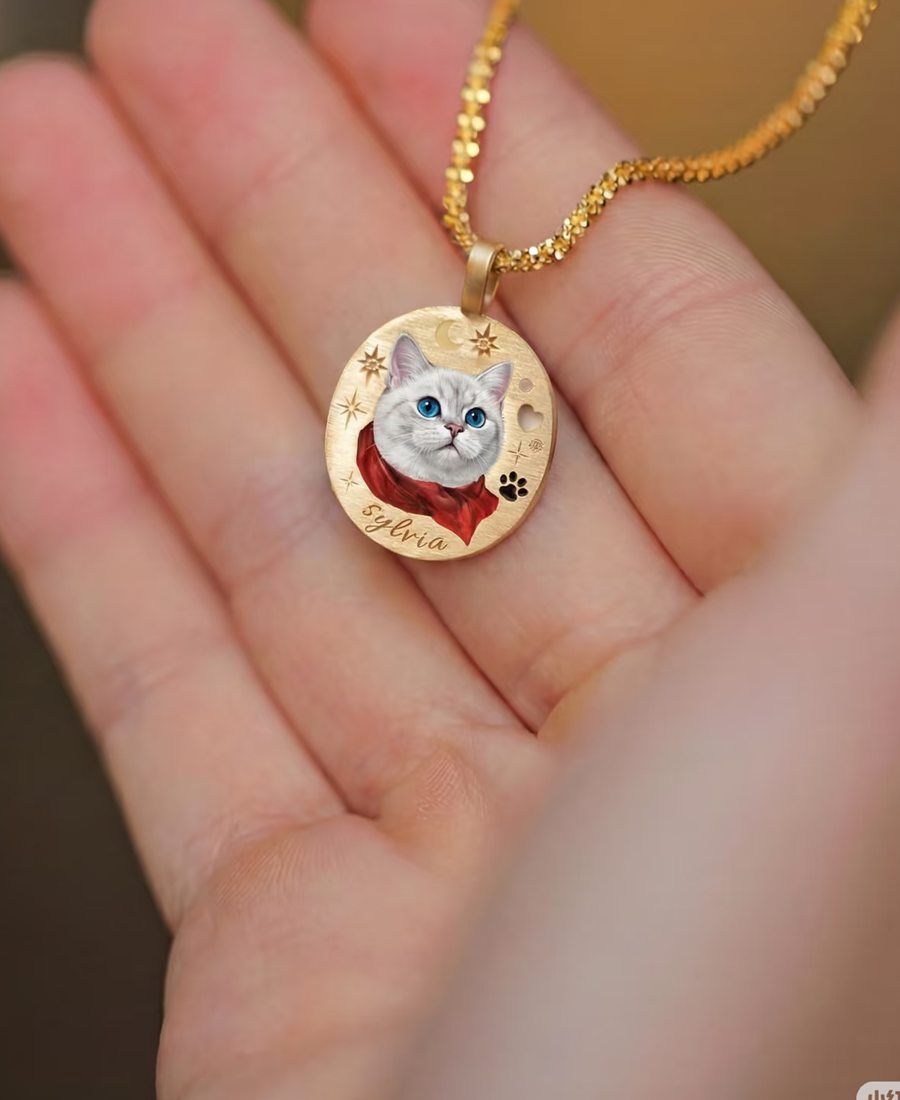
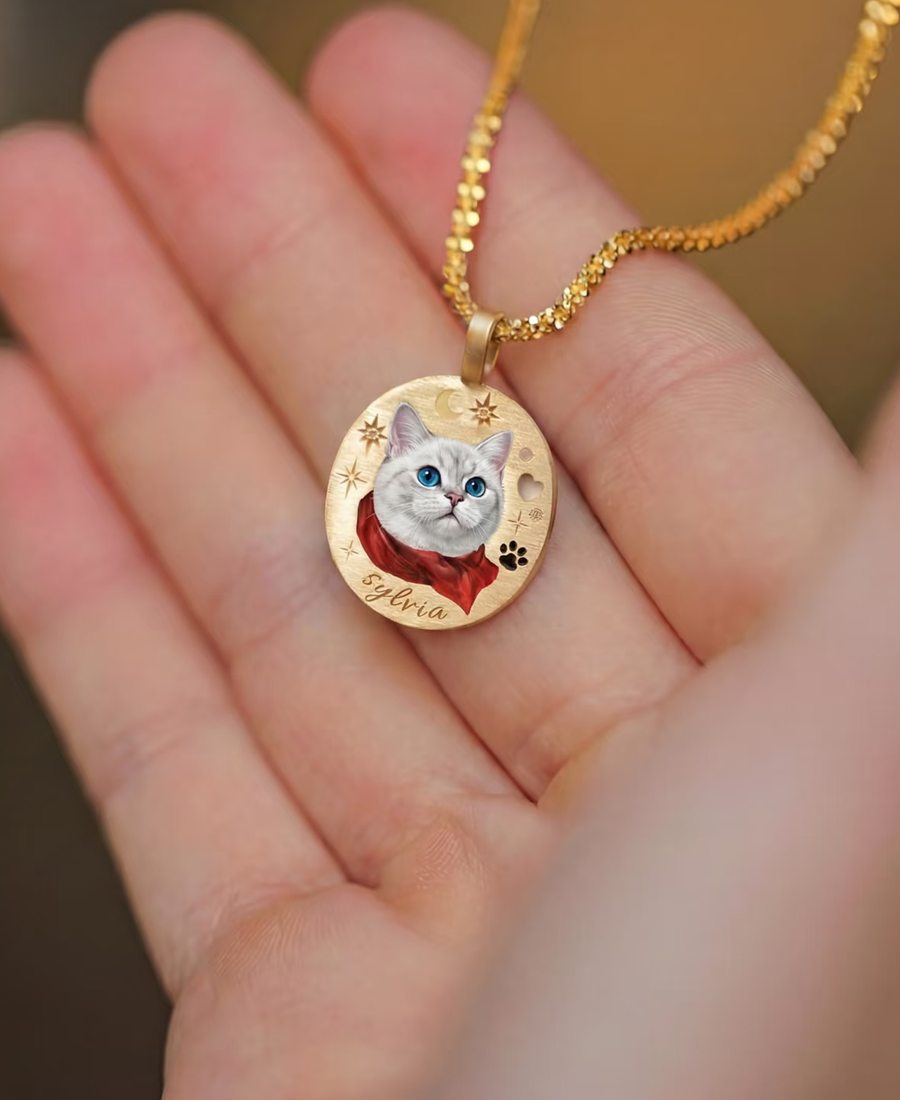
Refine pendant photograph crop to exclude watermark edge

diff --git a/public/index.html b/public/index.html
@@ -43,7 +43,7 @@
       <figure><img src="/portfolio/cat.jpg" alt="White-cat portrait signet with pink enamel flowers" width="900" height="1000" loading="lazy"><figcaption>A familiar face</figcaption></figure>
       <figure><img src="/portfolio/beach.jpg" alt="Enamel beach landscape ring with palm trees, a setting sun and stars" width="700" height="900" loading="lazy"><figcaption>A place to return to</figcaption></figure>
       <figure><img src="/portfolio/baby.jpg" alt="Baby portrait and childhood toys captured in a gold ring" width="900" height="950" loading="lazy"><figcaption>A moment in time</figcaption></figure>
-      <figure><img src="/portfolio/pendant.jpg" alt="Personalized cat portrait pendant with a red scarf and the name Sylvia" width="900" height="1100" loading="lazy"><figcaption>A love like no other</figcaption></figure>
+      <figure><img src="/portfolio/pendant.jpg?v=2" alt="Personalized cat portrait pendant with a red scarf and the name Sylvia" width="900" height="1100" loading="lazy"><figcaption>A love like no other</figcaption></figure>
       <figure><img src="/portfolio/apple.jpg" alt="Apple-core enamel signet ring with engraved botanical and star details" width="900" height="1050" loading="lazy"><figcaption>A meaning all your own</figcaption></figure>
     </div>
   </section>
@@ -76,7 +76,7 @@
 
   <section class="journal wrap" aria-labelledby="journal-title">
     <div class="journal-copy"><p class="eyebrow">The Vivid Novel journal</p><h2 id="journal-title">Every piece,<br><em>another story.</em></h2><p>A glimpse of past work, from a much-loved companion to a landscape worth remembering. Discover more of our world on Instagram.</p><a class="text-link" href="https://www.instagram.com/vivid.novel/" target="_blank" rel="noopener noreferrer">Visit @vivid.novel <span aria-hidden="true">↗</span></a></div>
-    <figure class="photo journal-photo"><img src="/portfolio/pendant.jpg" alt="Sylvia cat pendant, held in a hand to show the personalized enamel artwork" width="900" height="1100" loading="lazy"><figcaption>A familiar face, always near.</figcaption></figure>
+    <figure class="photo journal-photo"><img src="/portfolio/pendant.jpg?v=2" alt="Sylvia cat pendant, held in a hand to show the personalized enamel artwork" width="900" height="1100" loading="lazy"><figcaption>A familiar face, always near.</figcaption></figure>
     <figure class="photo journal-photo second"><img src="/portfolio/beach.jpg" alt="A tropical beach scene captured on a gold signet ring" width="700" height="900" loading="lazy"><figcaption>Some places never leave us.</figcaption></figure>
   </section>
 
